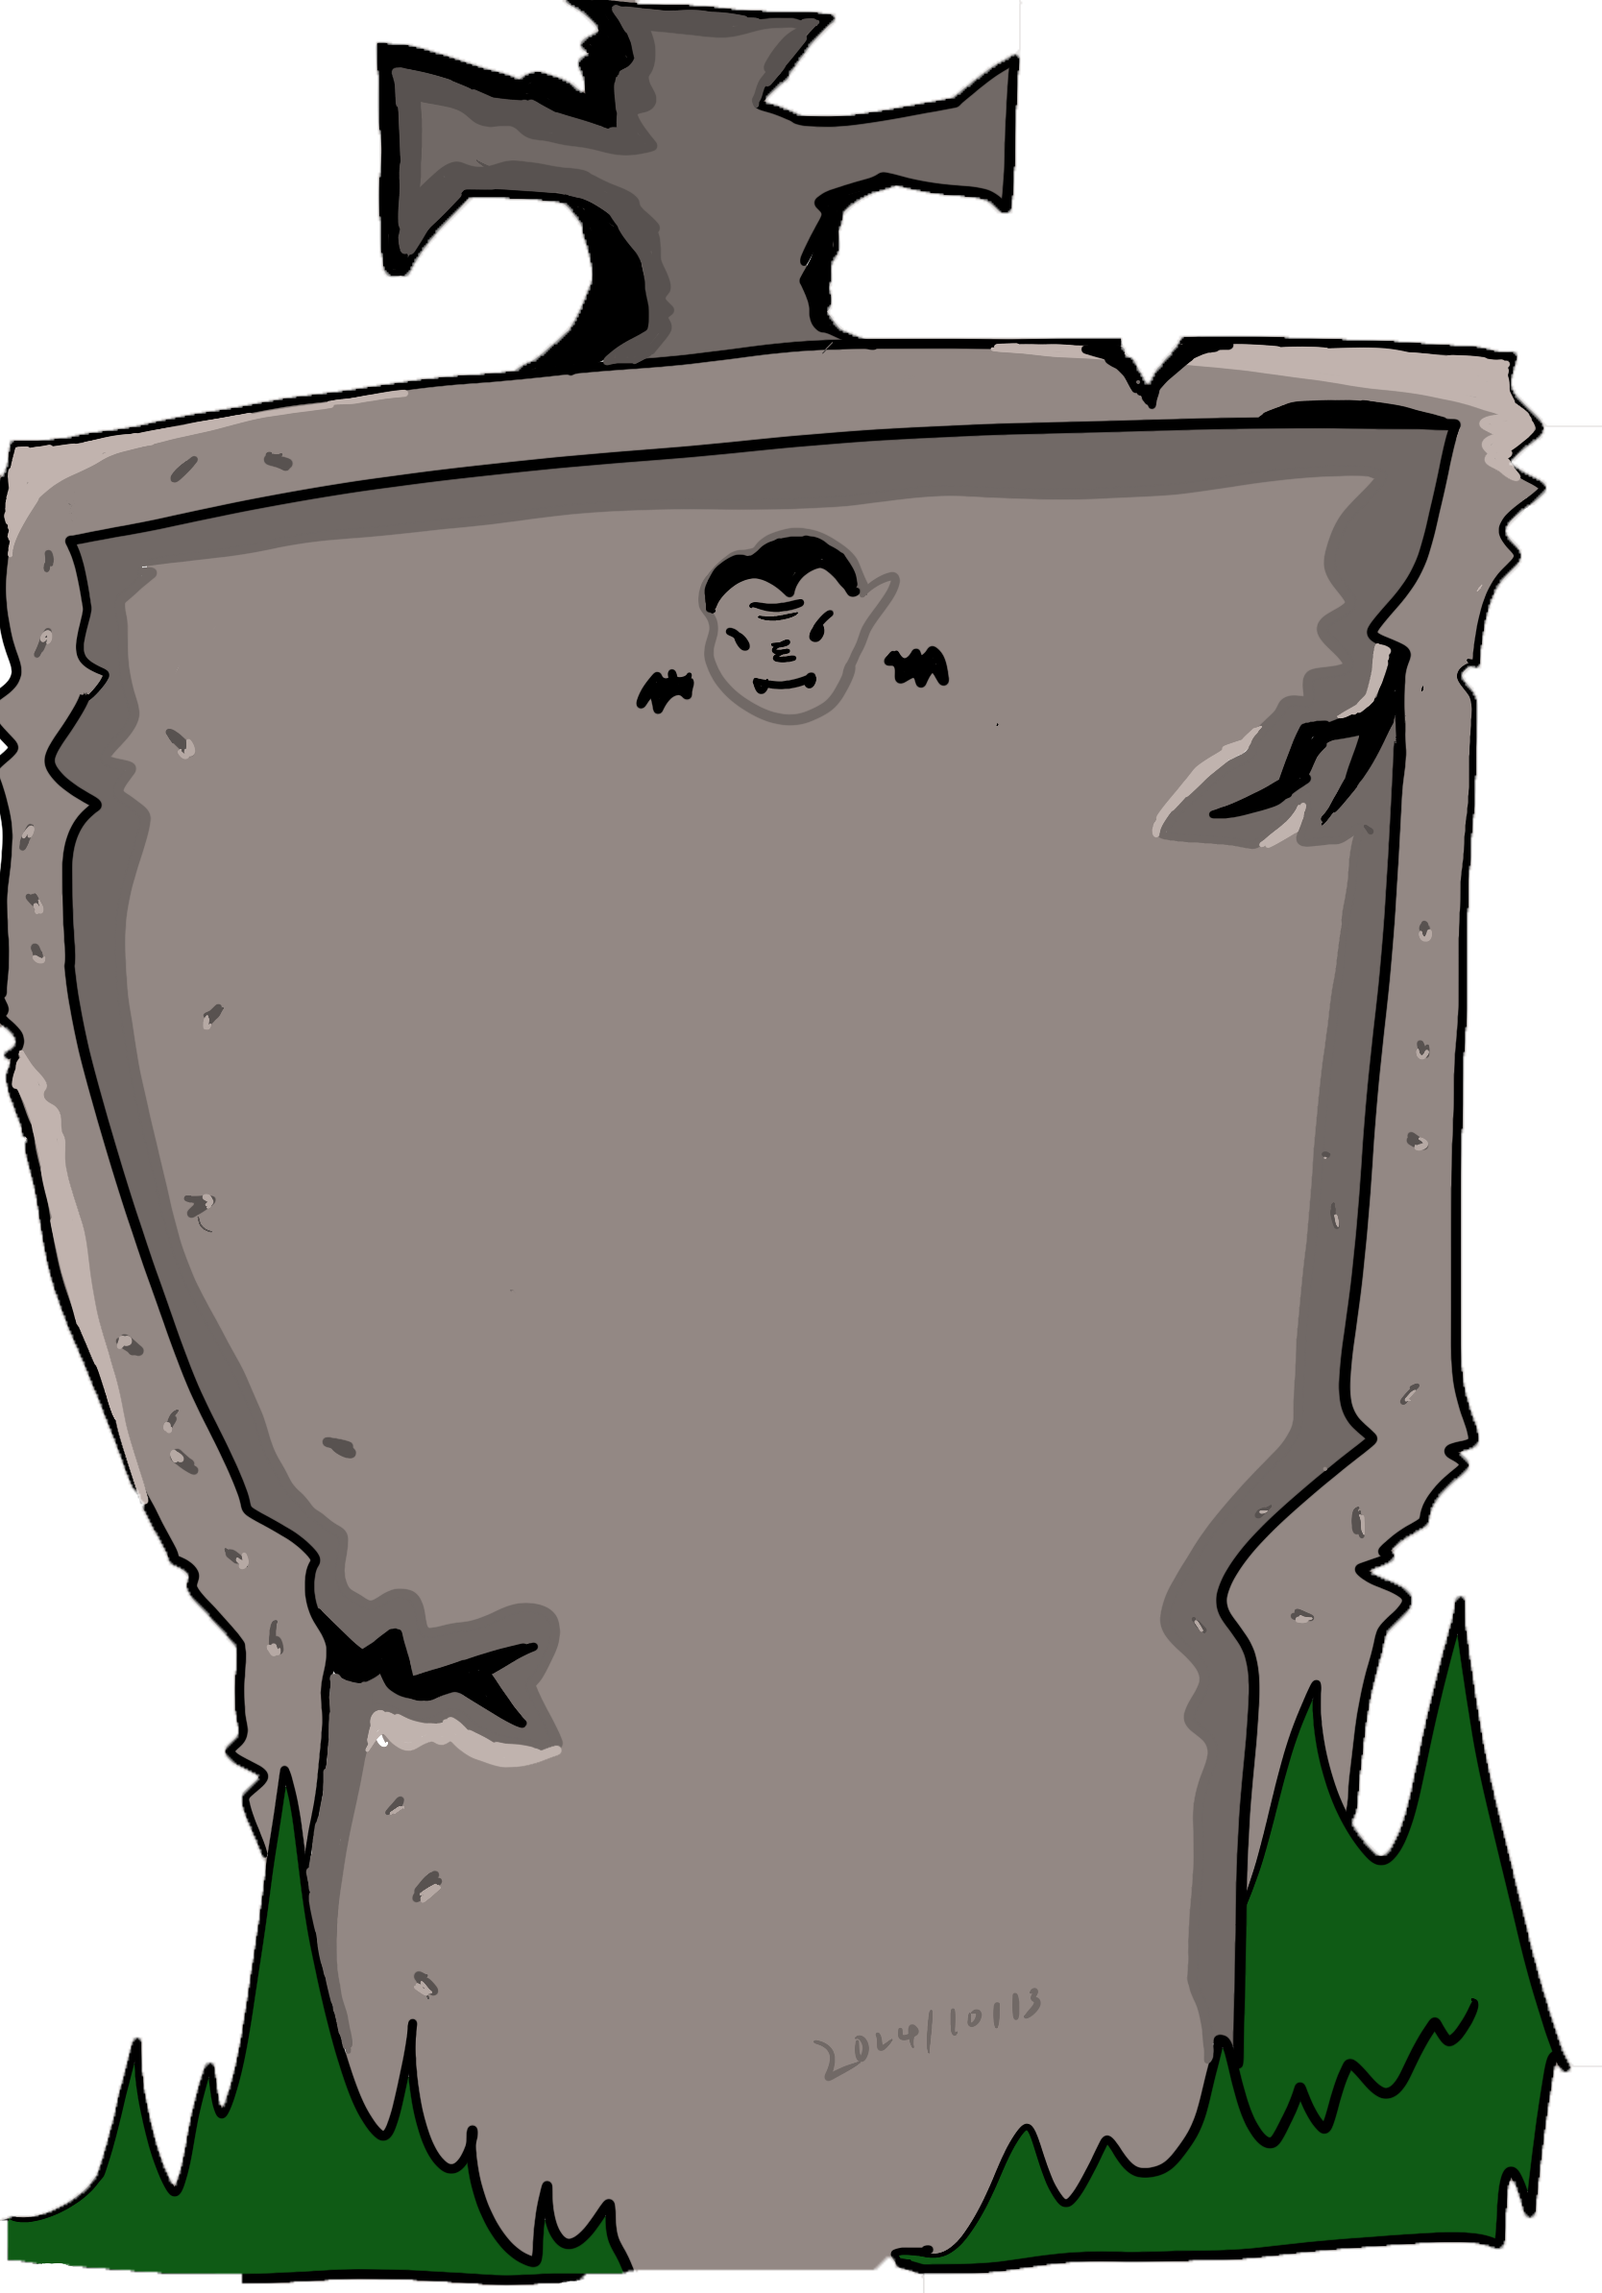
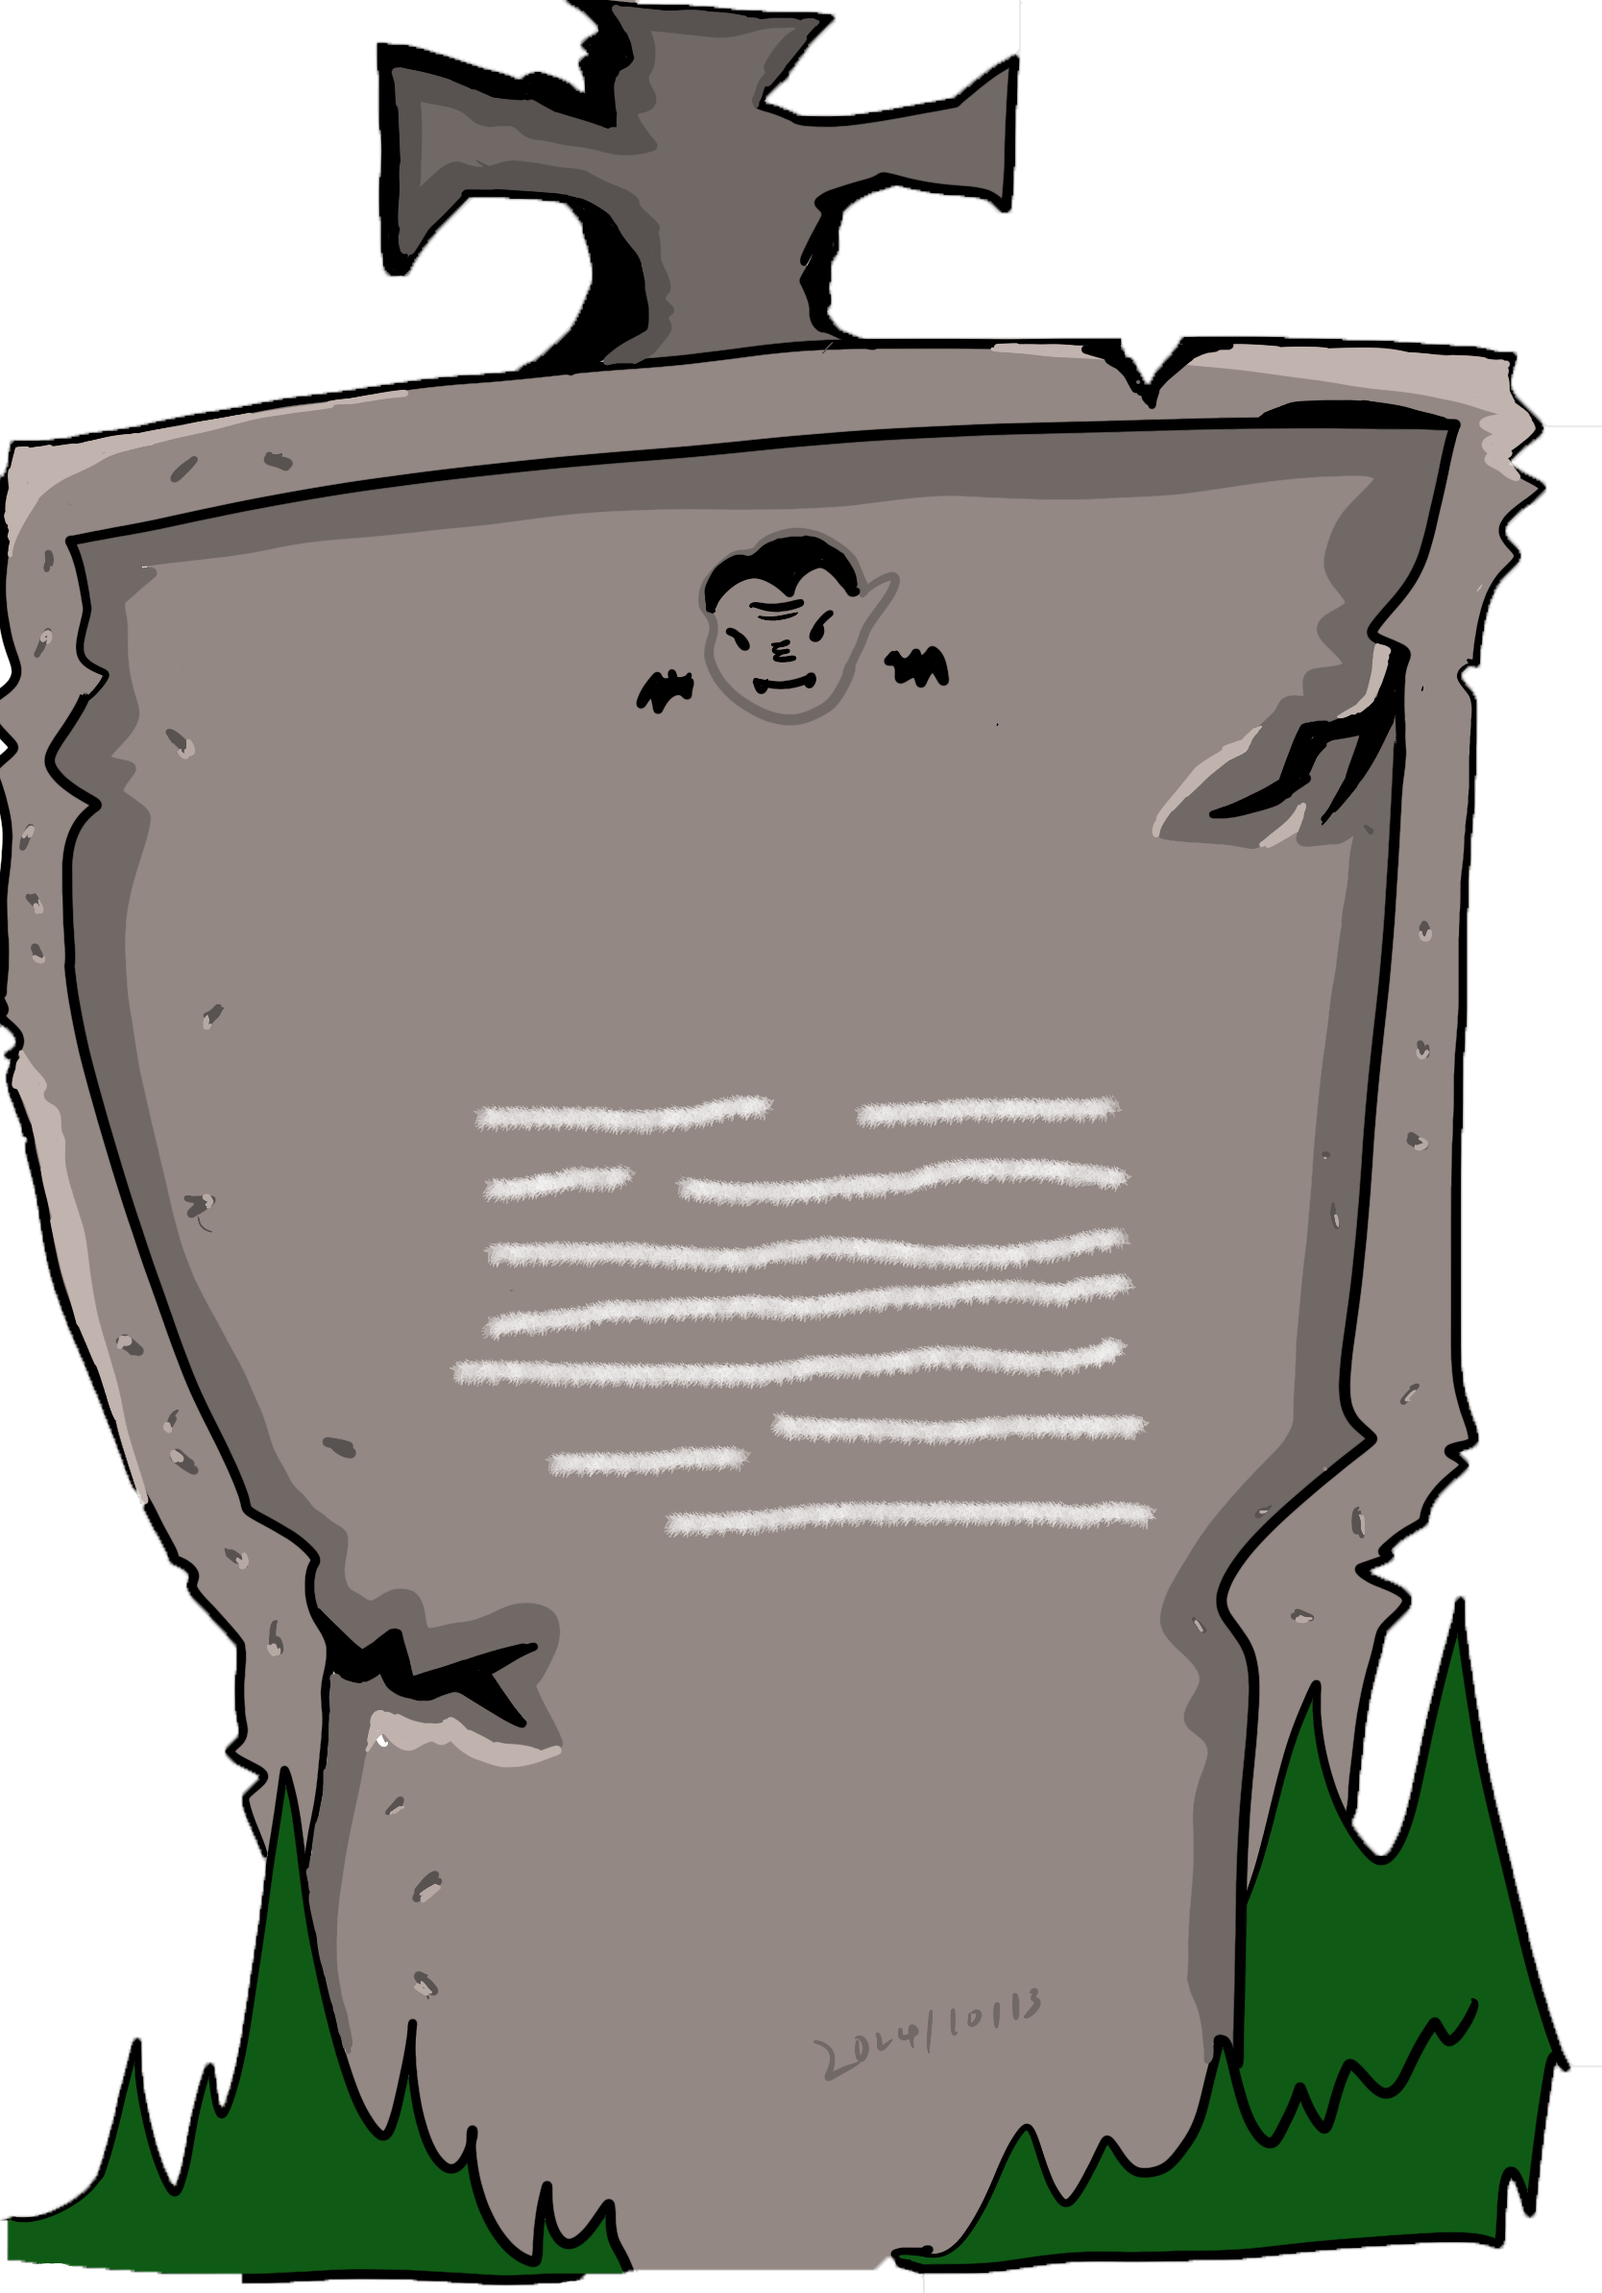
added index.html file

Changed region(s): [[0.2806, 0.4648, 0.717, 0.6817]]

diff --git a/MadLibs/styles.css b/MadLibs/styles.css
@@ -7,9 +7,39 @@ main{
     position: relative;
 }
 
+.left{
+    position: absolute;
+    top: -20vh;
+    left: -64vh;
+    width: 1000px;
+    height: 1000px;
+    transform-origin: bottom center;
+    animation: treeSwing 3s infinite ease-in-out;
+}
+
+.right{
+    position: absolute;
+    top: 10vh;
+    left: 143vh;
+    width: 1000px;
+    height: 1000px;
+    transform-origin: bottom center;
+    animation: treeSwing 3s infinite ease-in-out;
+}
+
+@keyframes treeSwing {
+    25% {
+        transform: rotate(30deg); /* 向右倾斜 */
+    }
+    75% {
+        transform: rotate(-30deg); /* 向左倾斜 */
+    }
+}
+
 #stone {
     margin-left: 200px;
 }
+
 
 #pen {
     position: absolute;
@@ -17,6 +47,33 @@ main{
     top: 32vh;
     display: block;
     animation: swing2 2s infinite ease-in-out;
+}
+
+.write{
+    position: absolute;
+    left: 52vh;
+    top: 54vh;
+    font-family: "Inknut Antiqua", serif;
+  font-weight: 700;
+  font-style: normal;
+  text-align: center;
+  font-size: 20px;
+  color: white;
+  animation: writecolor 1.5s infinite;
+
+
+}
+
+@keyframes writecolor {
+    0% {
+        color: #958883;
+    }
+     50%{
+        color: white;
+     }
+    100% {
+        color: #958883;
+    }
 }
 
 @keyframes swing2 {
@@ -70,13 +127,14 @@ h1 {
     display: flex;
     position: relative;
     margin: auto;
+    margin-left: 20px;
 }
 
 form {
     background-color: #3F3535;
     border-radius: 20px;
-    width: 228px;
-    height: 391px;
+    width: 600px;
+    height: 400px;
     display: flex;
     flex-direction: column;
     justify-content: center;
@@ -112,8 +170,8 @@ input {
 
 #rose {
     position: absolute;
-     top: 20vh;
-     right: 44vh;
+     top: -15vh;
+     right: 58vh;
 }
 
 #ss {
@@ -126,20 +184,40 @@ input {
 #mbat {
     position: absolute;
      top: 43vh;
-     right: 17vh;
+     right: 55vh;
      display: block;
      animation: swing 2s infinite ease-in-out;
 }
 
 input[type="submit"] {
-    background-color: #1A1A1A;
+    background: linear-gradient(to bottom, #8d0f0f 50%, transparent 80%);
+    background-size: 100% 200%;
+    background-position: 0 100%;
     border-color: #B83232;
     border-width: 5px;
     padding: 10px;
     margin-top: 10px;
     margin-left: auto;
-    width: 105px;
-    height: 33px;
+    width: 100px;
+    height: 50px;
+    animation: glowEffect 2s infinite alternate;
+    transition: background-position 0.5s ease-in-out;
+    color: #E3DDDD;
+    font-weight: 700;
+  font-style: normal;
+  text-align: center;
+}
+
+input[type="submit"]:hover {
+    background-position: 0 0;
+}
+@keyframes glowEffect {
+    0% {
+        box-shadow: 0 0 20px 10px red; /* 红色光芒 */
+    }
+    100% {
+        box-shadow: 0 0 20px 10px black; /* 黑色光芒 */
+    }
 }
 
 label {

diff --git a/MadLibs/index.html b/MadLibs/index.html
@@ -11,7 +11,8 @@
     <title>Mad Libs</title>
 </head>
 <body>
-
+     <img class="left" src="images/tree-letf.png" alt="">
+     <img class="right"  src="images/tree-right.png" alt="">
     <header>
         <h1>A <span class="night">Night</span> With The <br><span class="vam">Vampire</span></h1>
     </header>
@@ -20,6 +21,7 @@
         <img id="stone"  src="images/stone.png" alt="" width="485px" height="694px">
         <img id="pen"  src="images/pen.png" alt="" width="44px" height="64px">
         <img id="cat"  src="images/cat.png" alt="" width="140px" height="230px">
+        <p class="write">writing...</p>
         <div class="divv">
             <img id="wbat"  src="images/wbat.png" alt="" width="200px" height="172px">
             <img id="mbat"  src="images/mbat.png" alt="" width="200px" height="172px">
